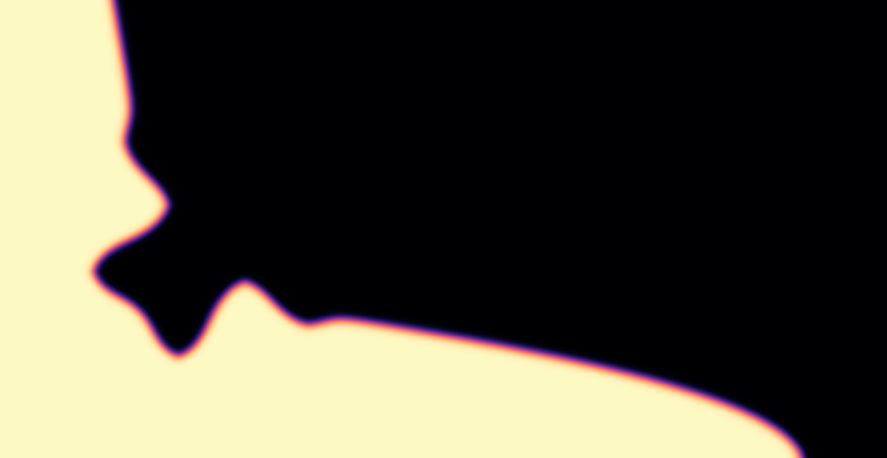
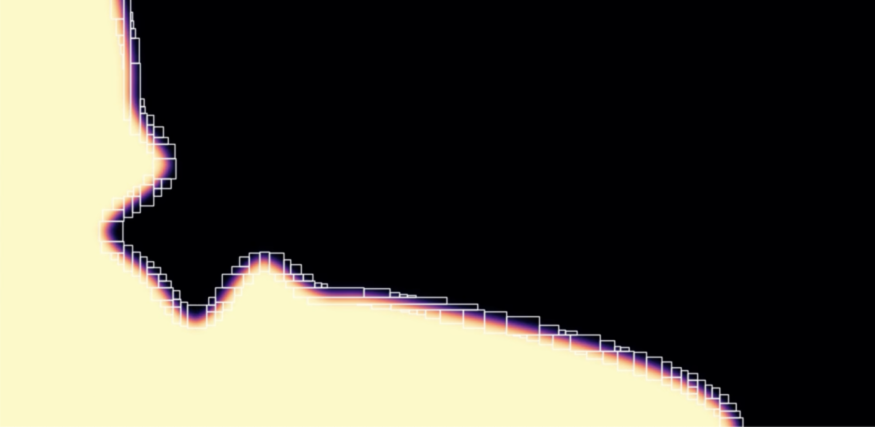
feat: polish

Changed region(s): [[0.0926, 0.0, 0.9257, 1.0]]

diff --git a/README.md b/README.md
@@ -13,7 +13,7 @@
 **A block-structured, deterministic, scheduler-driven PDE simulation framework in Rust.**
 
 <sub>The image is real output, not artwork: a Karma–Rappel Model C solidification
-front from <code>examples/model_c</code>, rendered with
+front from <code>examples/model_c</code> and AMR subcycling, rendered with
 <code>scripts/render_model_c.py</code>.</sub>
 
 </div>
@@ -234,9 +234,9 @@ Live progress via `indicatif`:
 | Layer | Shipped today |
 |---|---|
 | **Geometry** | `CartesianGrid<const D>` (uniform, block-tiled, any dimension, per-dimension periodic wrap via `with_periodic`), signed ghost indexing, dimension-sweep halo exchange with mirror (no-flux) physical boundaries on non-periodic faces, `fill_from_fn` declarative initial conditions |
-| **AMR** | Berger–Oliger block-structured refinement behind the same `Grid` trait: `AmrGrid<const D>` patch hierarchies (proper nesting and ratio alignment enforced at construction), Berger–Rigoutsos signature clustering, conservative restriction + bilinear prolongation, and adaptivity as a defaulted `Adapt` policy on `Simulation` (`BergerOliger` + `GradientTagger`; `Static` no-op default). Global dt v1; time subcycling and refluxing are roadmap |
+| **AMR** | Berger–Oliger block-structured refinement behind the same `Grid` trait: `AmrGrid<const D>` patch hierarchies (proper nesting and ratio alignment enforced at construction), Berger–Rigoutsos signature clustering, conservative restriction + bilinear prolongation, and adaptivity as a defaulted `Adapt` policy on `Simulation` (`BergerOliger` + `GradientTagger`; `Static` no-op default). Runs global-dt (any integrator) or **time-subcycled** (`Subcycling`: coarse levels take big steps, finer levels `r²`/`r` substeps derived from the model's stability law, with time-interpolated coarse boundaries) |
 | **Discretization** | `FiniteDifference` (central, 2nd order), `FiniteVolume` (Karma–Rappel anisotropic flux divergence); operator tags `Laplacian`, `Gradient`, `Divergence`, `AnisotropicDivergence` |
-| **Integrators** | `ForwardEuler`, `EulerMaruyama` (√dt-correct stochastic), `RungeKutta4` (O(dt⁴) drift, composable with noise) |
+| **Integrators** | `ForwardEuler`, `EulerMaruyama` (√dt-correct stochastic), `RungeKutta4` (O(dt⁴) drift, composable with noise), `Subcycling` (Berger–Oliger refined timestepping on `AmrGrid`) |
 | **Models** | `ModelC` — Karma–Rappel dendritic solidification: coupled φ/u, 4-fold anisotropy, multi-grain nucleation with **per-grain crystallographic orientation** (static θ₀(x) field via nearest-seed Voronoi; anisotropy evaluated as A(θ − θ₀)); O(cells + blocks·grains) initialization |
 | **Execution** | `SerialScheduler` (oracle), `RayonScheduler` (work-stealing), worker-pinned `ScratchPool`, scheduler-parallel state algebra |
 | **Observation** | `AsyncObserver` pipeline, `ParquetObserver<D>` (long-format, snappy, x/y/z columns), `FieldStatsSink` + `indicatif` progress, movie rendering script (`scripts/render_model_c.py`) |
@@ -319,6 +319,7 @@ Every layer is pinned by an *exactness* test, not a tolerance hand-wave:
 | AMR patches | stencils on a patch vs. a uniform twin grid; full-fine-tiling run vs. uniform run | bitwise identical |
 | AMR intergrid | linear fields through exchange/prolongation/restriction; migration through copy + prolong paths | exact to 1e-12 |
 | AMR adaptivity | adaptive vs. coarse vs. restricted-fine reference; Model C interface tracked by \|∇φ\| tagging | adaptive strictly beats coarse; interface cells always refined |
+| AMR subcycling | fully-tiled subcycled run vs. uniform-fine twin; adaptive run vs. scheduler swap (serial vs. Rayon) | bitwise identical; scheduler-independent |
 | Static-field layout | tendency buffers skip zero-tendency fields | zero-length slabs; axpy/noise leave statics bit-identical |
 | Parquet round-trip | the on-disk snapshot contract | doubles round-trip bit-for-bit; row order matches the static file |
 | Async pipeline | delivery, ring recycling, drain-on-shutdown | exact snapshot schedule received; `finish()` runs |
@@ -363,7 +364,7 @@ Any method-of-lines system **∂Y/∂t = F(Y, ∇Y, ∇²Y, …, x, t) + Σⱼ V
 | **Incompressible Navier–Stokes, quasi-static elasticity** | the implicit stack above (pressure projection / global solve) | models-as-bounds pattern unchanged |
 | **IMEX splitting** for stiff reactions | optional stiff/non-stiff RHS split on `Model` | default method, existing models unaffected |
 | **Adaptive CFL** (advection-dominated) | `stable_dt` currently cannot see the state; needs the same reductions | optional `stable_dt_state` method |
-| **AMR time subcycling + refluxing** (Berger–Oliger refined timestepping, Berger–Colella conservation fix-up) | per-level dt with time-interpolated coarse boundaries; flux registers at coarse–fine faces | the patch hierarchy, intergrid transfers, and `Adapt` policy already exist; both are new integrator orchestration only |
+| **AMR refluxing** (Berger–Colella conservation fix-up) | flux registers at coarse–fine faces correct the coarse solution for the fine fluxes that crossed them | subcycled refined timestepping already ships (`Subcycling`); refluxing is a flux-register layer on the existing intergrid transfers |
 
 ### Outside the Current Architecture
 